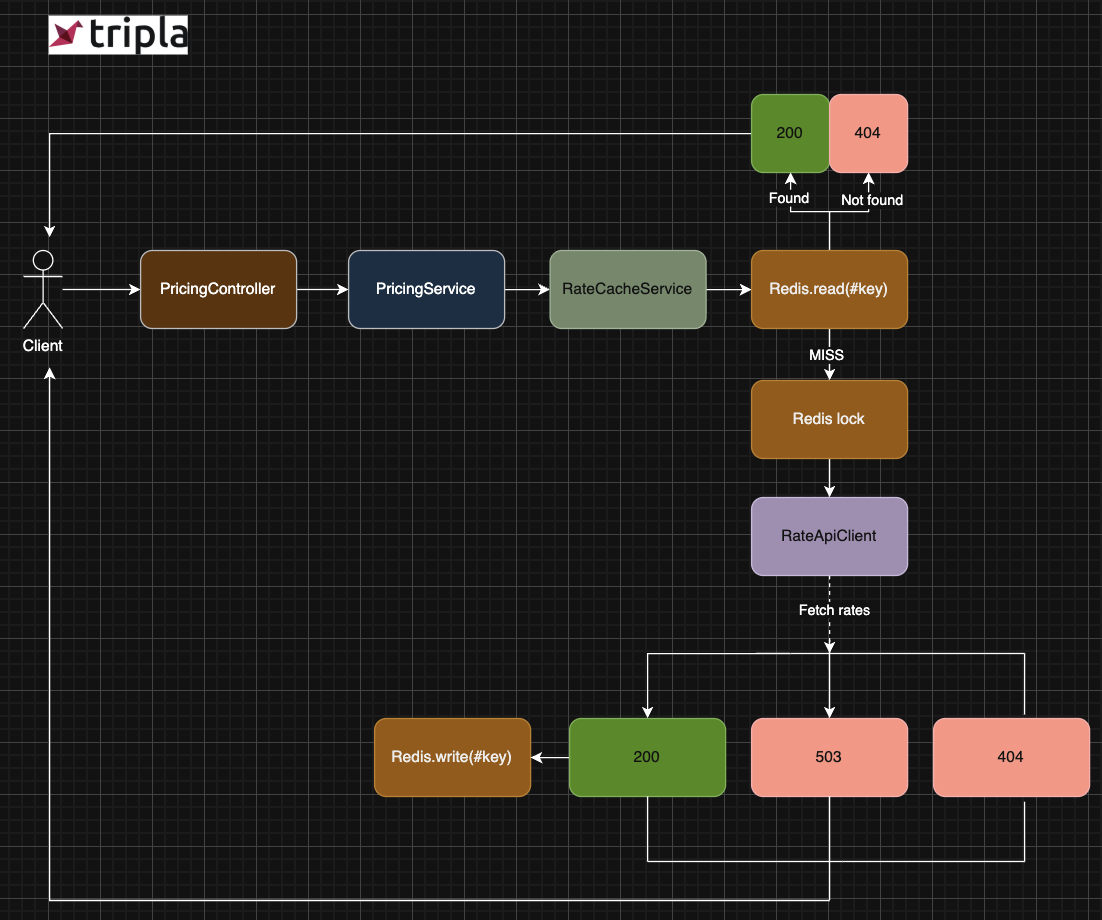
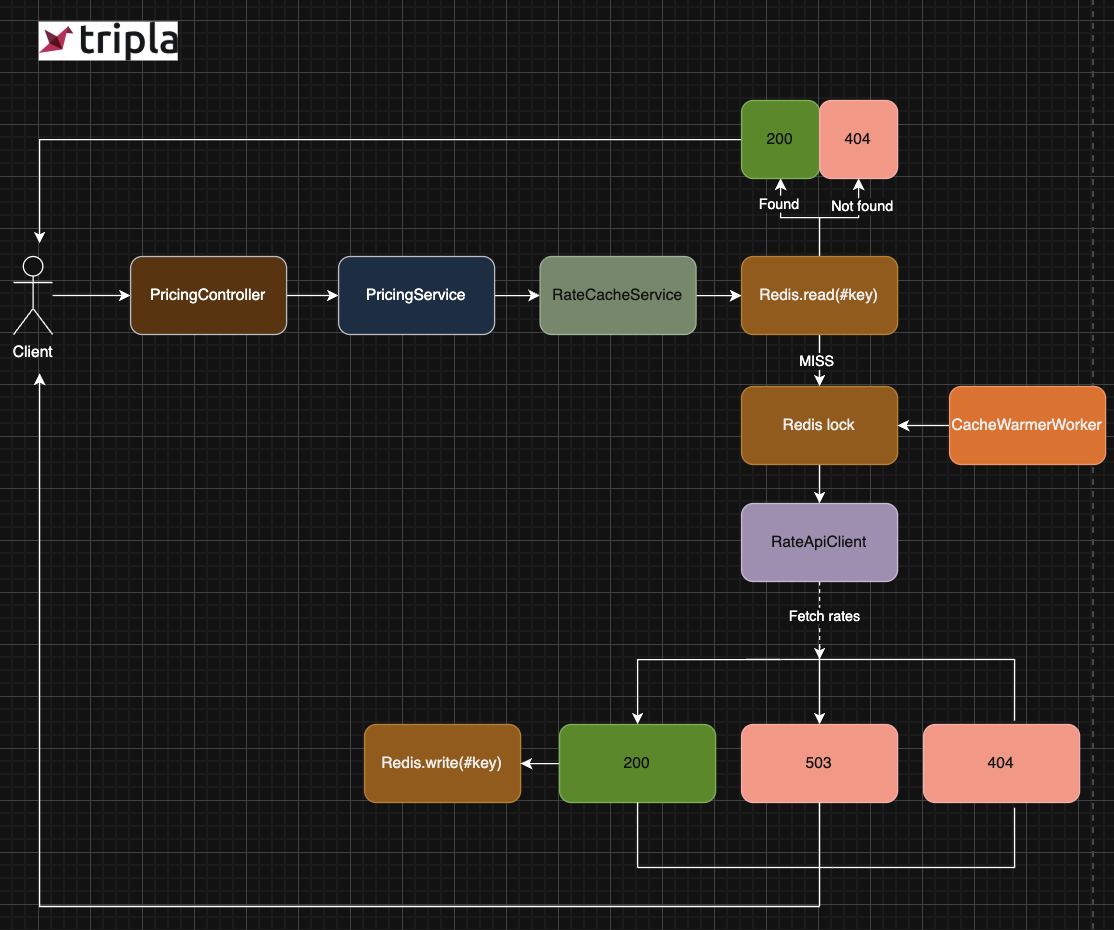
T-2 - added scheduled cache warming worker

diff --git a/app/services/api/v1/rate_cache_service.rb b/app/services/api/v1/rate_cache_service.rb
@@ -31,6 +31,17 @@ module Api::V1
       cached == MISSING ? nil : cached
     end
 
+    def self.warm_cache
+      token = SecureRandom.hex
+      return unless acquire_lock(token)
+      Rails.logger.info("event=cache_warmer_started")
+      begin
+        fetch_from_api_and_cache
+      ensure
+        release_lock(token)
+      end
+    end
+
     private_class_method def self.ensure_cache_populated(period:, hotel:, room:)
       token = SecureRandom.hex
       if acquire_lock(token)
@@ -112,7 +123,14 @@ module Api::V1
     end
 
     private_class_method def self.redis
-      @redis ||= Redis.new(url: ENV.fetch('REDIS_URL', 'redis://localhost:6379/0'))
+      @redis ||= Redis.new(
+        url:                ENV.fetch('REDIS_URL', 'redis://localhost:6379/0'),
+        connect_timeout:    ENV.fetch('REDIS_CONNECT_TIMEOUT', 1).to_f,
+        read_timeout:       ENV.fetch('REDIS_READ_TIMEOUT', 1).to_f,
+        write_timeout:      ENV.fetch('REDIS_WRITE_TIMEOUT', 1).to_f,
+        reconnect_attempts: ENV.fetch('REDIS_RECONNECT_ATTEMPTS', 3).to_i,
+        reconnect_delay:    0.5
+      )
     end
 
     private_class_method def self.cacheable_rate?(r)

diff --git a/test/workers/cache_warmer_worker_test.rb b/test/workers/cache_warmer_worker_test.rb
@@ -1,0 +1,19 @@
+require "test_helper"
+
+class CacheWarmerWorkerTest < ActiveSupport::TestCase
+  test "calls warm_cache on perform" do
+    called = false
+    Api::V1::RateCacheService.stub(:warm_cache, -> { called = true }) do
+      CacheWarmerWorker.new.perform
+    end
+    assert called
+  end
+
+  test "re-raises and logs when warm_cache fails" do
+    Api::V1::RateCacheService.stub(:warm_cache, -> { raise RateApiError, 'upstream error' }) do
+      assert_raises(RateApiError) do
+        CacheWarmerWorker.new.perform
+      end
+    end
+  end
+end

diff --git a/test/services/api/v1/rate_cache_service_test.rb b/test/services/api/v1/rate_cache_service_test.rb
@@ -24,6 +24,23 @@ class Api::V1::RateCacheServiceTest < ActiveSupport::TestCase
     end
   end
 
+  test "warm_cache fetches all combinations and populates the cache" do
+    with_lock do
+      RateApiClient.stub(:get_rates_batch, mock_response(ALL_RATES)) do
+        Api::V1::RateCacheService.warm_cache
+        assert_equal '10000', Rails.cache.read('pricing:rate:Summer:FloatingPointResort:SingletonRoom')
+      end
+    end
+  end
+
+  test "warm_cache is a no-op when another process holds the lock" do
+    Api::V1::RateCacheService.stub(:acquire_lock, ->(_) { false }) do
+      RateApiClient.stub(:get_rates_batch, ->(_) { flunk 'API should not be called' }) do
+        Api::V1::RateCacheService.warm_cache
+      end
+    end
+  end
+
   test "returns cached rate without calling the API" do
     Rails.cache.write('pricing:rate:Summer:FloatingPointResort:SingletonRoom', '10000')
 

diff --git a/app/workers/cache_warmer_worker.rb b/app/workers/cache_warmer_worker.rb
@@ -1,0 +1,11 @@
+class CacheWarmerWorker
+  include Sidekiq::Job
+  sidekiq_options retry: false
+
+  def perform
+    Api::V1::RateCacheService.warm_cache
+  rescue => e
+    Rails.logger.error("event=cache_warmer_error message=#{e.class}:#{e.message}")
+    raise
+  end
+end

diff --git a/config/initializers/cache_warmer.rb b/config/initializers/cache_warmer.rb
@@ -1,0 +1,10 @@
+Sidekiq.configure_server do |config|
+  config.on(:startup) do
+    Sidekiq::Cron::Job.load_from_hash!(
+      'cache_warmer' => {
+        'cron'  => '*/4 * * * *',
+        'class' => 'CacheWarmerWorker'
+      }
+    )
+  end
+end

diff --git a/test/test_helper.rb b/test/test_helper.rb
@@ -2,6 +2,7 @@ ENV["RAILS_ENV"] ||= "test"
 require_relative "../config/environment"
 require "rails/test_help"
 require "minitest/mock"
+require "ostruct"
 
 class ActiveSupport::TestCase
   # Run tests in parallel with specified workers

diff --git a/README.md b/README.md
@@ -3,15 +3,13 @@
 ## Reviewer notes
 
 The core design choice is batch refresh. Since there are only 36 valid combinations,
-one upstream batch call refreshes the whole catalog for a 5-minute window. This keeps
-normal upstream usage around 288 calls/day, below the 1,000/day limit.
+one upstream batch call refreshes the whole catalog for a 5-minute window.
 
 The Redis lock prevents cold-start stampedes, and missing rates are cached as a
 5-minute negative result so one absent combination does not repeatedly trigger refreshes.
 
-I intentionally did not add background warming or retries in this version. They are
-reasonable next steps, but the current request-driven refresh keeps the system smaller
-while meeting the stated requirements.
+A Sidekiq cron job warms the cache every 4 minutes so users do not wait for an upstream
+call after the first window. The existing Redis lock ensures only one refresh runs at a time.
 
 ---
 ## Overview
@@ -38,7 +36,8 @@ That is 10x over the 1,000/day limit, even with caching enabled.
 
 The model API supports **batch requests**, so I changed the strategy: on any cache
 miss, fetch **all 36 combinations** in one call and cache each rate for 5 minutes.
-That is **about 288 calls/day** with plenty of headroom.
+Request-driven refresh alone would cost about 288 calls/day. With proactive warming
+every 4 minutes the warmer uses about 360 calls/day - still well below the 1,000/day limit.
 
 ---
 ## Why Redis and not memory store
@@ -59,6 +58,17 @@ The release uses a Lua script instead of a plain `DELETE`. If the holder crashes
 the TTL expires, another process can acquire the lock before the cleanup runs - a
 plain `DELETE` would wipe it. The Lua script checks the token first, so only the
 original holder can release its own lock.
+
+---
+## Why proactive warming
+
+The request path refreshes the cache on demand, but the first request after a 5-minute
+window pays upstream latency. A Sidekiq cron job refreshes the catalog every 4 minutes,
+so rates are already warm before they expire in normal operation.
+
+This uses about 360 upstream calls/day, still below the 1,000/day limit. The same Redis
+lock is shared by both the warmer and user-triggered refreshes, so only one fetch can
+run at a time.
 
 ---
 ## How cache misses are handled
@@ -103,10 +113,8 @@ A 503 is more honest.
 ---
 ## Alternatives considered
 
-**Proactive cache warming** - a background job refreshes all 36 combinations every
-~4.5 minutes so the cache is always warm. Same API budget, better latency. I left it
-out because at ~0.12 req/s the miss latency is infrequent and acceptable, and a
-scheduler adds operational complexity I did not need yet.
+**Request-only refresh** - cache on demand, no background job. Simpler, but the first
+request after each 5-minute window pays upstream latency. Replaced by proactive warming.
 
 **file_store** - works across Puma workers on the same host but not across containers.
 Redis is the standard for shared cache in containerized Rails services.
@@ -131,8 +139,7 @@ In production, these are the signals to alert on before upstream quota or availa
 ---
 ## Known limitations
 
-- **No proactive warming** - first request after each 5-minute window pays the upstream latency.
-- **No retry on upstream failure** - a single error returns 503 immediately.
+- **No retry on upstream failure** - a single error returns 503 immediately. Retries are intentionally omitted - on a 1,000/day quota, retrying a failed call risks doubling upstream usage during an outage.
 - **Single Redis instance** - no cluster HA. An outage returns 503 and does not degrade to unprotected upstream calls.
 
 ---
@@ -142,7 +149,7 @@ In production, these are the signals to alert on before upstream quota or availa
 docker compose up -d --build
 ```
 
-The Rails app starts on `http://localhost:3000`.
+This starts the Rails app, rate-api, Redis, and Sidekiq. The Rails app is available on `http://localhost:3000`.
 Example requests:
 
 **200:**
@@ -173,6 +180,10 @@ Tests use an in-memory cache store - no Redis required to run the test suite.
 - `RATE_API_CONNECT_TIMEOUT` - TCP connection timeout in seconds. Default: `3`
 - `RATE_API_READ_TIMEOUT` - HTTP read timeout in seconds. Default: `10`
 - `REDIS_URL` - Redis connection URL. Required in production. Default: `redis://localhost:6379/0`
+- `REDIS_CONNECT_TIMEOUT` - Redis TCP connection timeout in seconds. Default: `1`
+- `REDIS_READ_TIMEOUT` - Redis read timeout in seconds. Default: `1`
+- `REDIS_WRITE_TIMEOUT` - Redis write timeout in seconds. Default: `1`
+- `REDIS_RECONNECT_ATTEMPTS` - Redis reconnect attempts on connection failure. Default: `3`
 
 ---
 ## AI usage